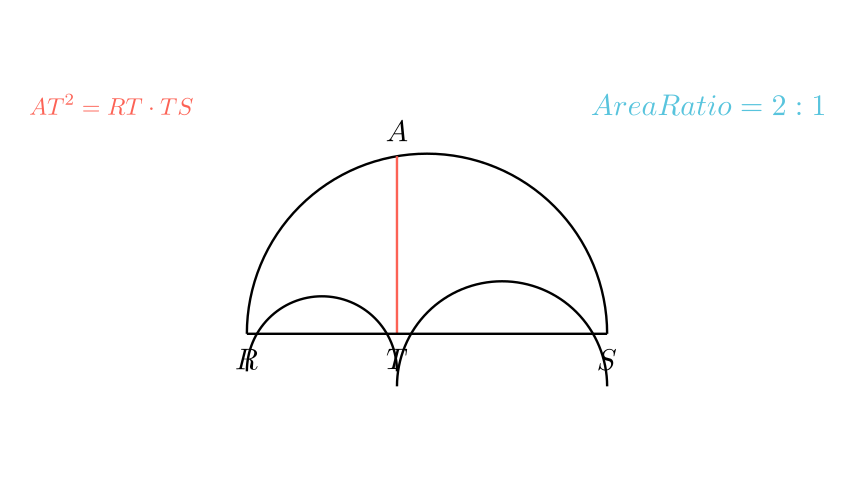
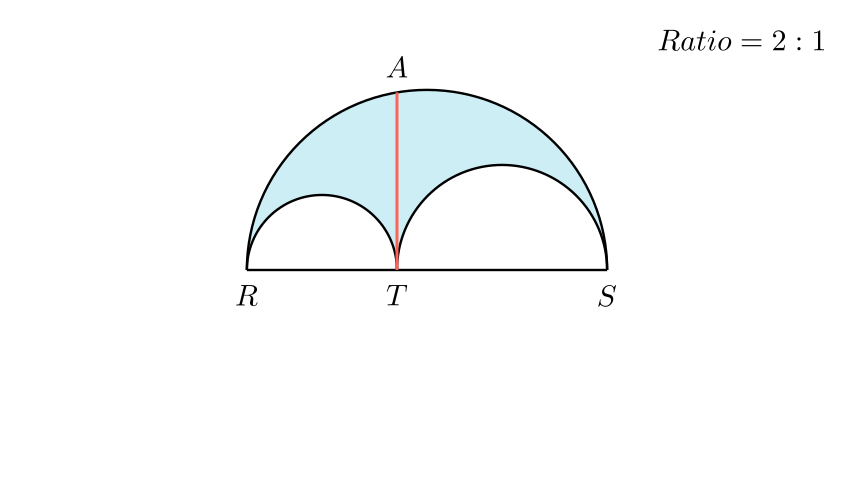
Add new geometry problem on area ratios in Arbelos with hints and detailed solution

diff --git a/tools/archive/20260108_063950_new_problem_input.md b/tools/archive/20260108_063950_new_problem_input.md
@@ -1,19 +1,20 @@
 ---
-difficulty: 4
-grade: 10
-primary_skill: геометриско_средно
+
 problem_id: sigma_137_y2_p3
-related_skills:
-- теорема_на_талес
-- сличност_на_триаголници
-source: Сигма 137
-tags:
-- планиметрија
-- плоштина
-- својства_на_кружница
-- арбелос
 title: Својства на Арбелос и геометриско средно
+grade: 10
+difficulty: 4
 type: geometry
+tags:
+  - планиметрија
+  - плоштина
+  - својства_на_кружница
+  - арбелос
+primary_skill: геометриско_средно
+related_skills:
+  - теорема_на_талес
+  - сличност_на_триаголници
+source: Сигма 137
 ---
 
 # Однос на плоштини во Арбелос
@@ -109,12 +110,6 @@ $$ \frac{P_1}{P_2} = \frac{1/2}{1/4} = 2 $$
 
 **Краен одговор:** $$\boxed{2:1}$$
 
-
-
----
-### 🎨 Визуелизација
-![Илустрација](/assets/images/sigma_137_y2_p3/sigma_137_y2_p3.png)
-
 ## 👨🏫 Менторски Белешки
 
 1. **Златен Совет:** Кај секоја задача каде што се појавува висина кон хипотенуза на правоаголен триаголник, веднаш запишете го односот на геометриското средно. Тоа е најчестиот мост помеѓу линеарните отсечки и плоштините.
@@ -124,3 +119,52 @@ $$ \frac{P_1}{P_2} = \frac{1/2}{1/4} = 2 $$
 ### 🔗 Поврзани вештини
 * **Примарна вештина:** Планиметриско пресметкување плоштини.
 * **Потребни предзнаења:** Теорема на Талес и Евклидови теореми за правоаголен триаголник.
+
+# Manim Code
+```python
+from manim import *
+
+class SolutionScene(Scene):
+    def construct(self):
+        self.camera.background_color = WHITE
+        
+        # Parameters
+        r1 = 1.25
+        r2 = 1.75
+        R = r1 + r2
+        
+        # Centers
+        c_large = ORIGIN
+        c_small1 = LEFT * (R - r1)
+        c_small2 = RIGHT * (R - r2)
+        
+        # 1. Shaded Arbelos (Blue)
+        # We simulate the shading by layering: Blue large - White smalls
+        large_blue = Sector(radius=R, angle=PI, fill_color=BLUE, fill_opacity=0.3, stroke_width=0).shift(DOWN*0.5)
+        small1_white = Sector(radius=r1, angle=PI, fill_color=WHITE, fill_opacity=1.0, stroke_width=0).move_to(c_small1 + DOWN*0.5, aligned_edge=DOWN)
+        small2_white = Sector(radius=r2, angle=PI, fill_color=WHITE, fill_opacity=1.0, stroke_width=0).move_to(c_small2 + DOWN*0.5, aligned_edge=DOWN)
+        
+        # 2. Outlines
+        out_large = Arc(radius=R, start_angle=0, angle=PI, color=BLACK, stroke_width=4).shift(DOWN*0.5)
+        out1 = Arc(radius=r1, start_angle=0, angle=PI, color=BLACK, stroke_width=4).move_to(c_small1 + DOWN*0.5, aligned_edge=DOWN)
+        out2 = Arc(radius=r2, start_angle=0, angle=PI, color=BLACK, stroke_width=4).move_to(c_small2 + DOWN*0.5, aligned_edge=DOWN)
+        baseline = Line(LEFT*R, RIGHT*R, color=BLACK, stroke_width=4).shift(DOWN*0.5)
+        
+        # 3. Altitude AT
+        t_pos = LEFT*R + RIGHT*(2*r1)
+        h_val = ( (2*r1)*(2*r2) )**0.5
+        a_pos = t_pos + UP*h_val
+        line_at = Line(t_pos + DOWN*0.5, a_pos + DOWN*0.5, color=RED, stroke_width=5)
+        
+        # 4. Labels
+        lbl_r = MathTex("R", color=BLACK).next_to(LEFT*R + DOWN*0.5, DOWN)
+        lbl_s = MathTex("S", color=BLACK).next_to(RIGHT*R + DOWN*0.5, DOWN)
+        lbl_t = MathTex("T", color=BLACK).next_to(t_pos + DOWN*0.5, DOWN)
+        lbl_a = MathTex("A", color=BLACK).next_to(a_pos + DOWN*0.5, UP)
+        lbl_res = MathTex("Ratio = 2:1", color=BLACK).to_corner(UR)
+
+        # Build scene
+        self.add(large_blue, small1_white, small2_white)
+        self.add(out_large, out1, out2, baseline, line_at)
+        self.add(lbl_r, lbl_s, lbl_t, lbl_a, lbl_res)
+```
